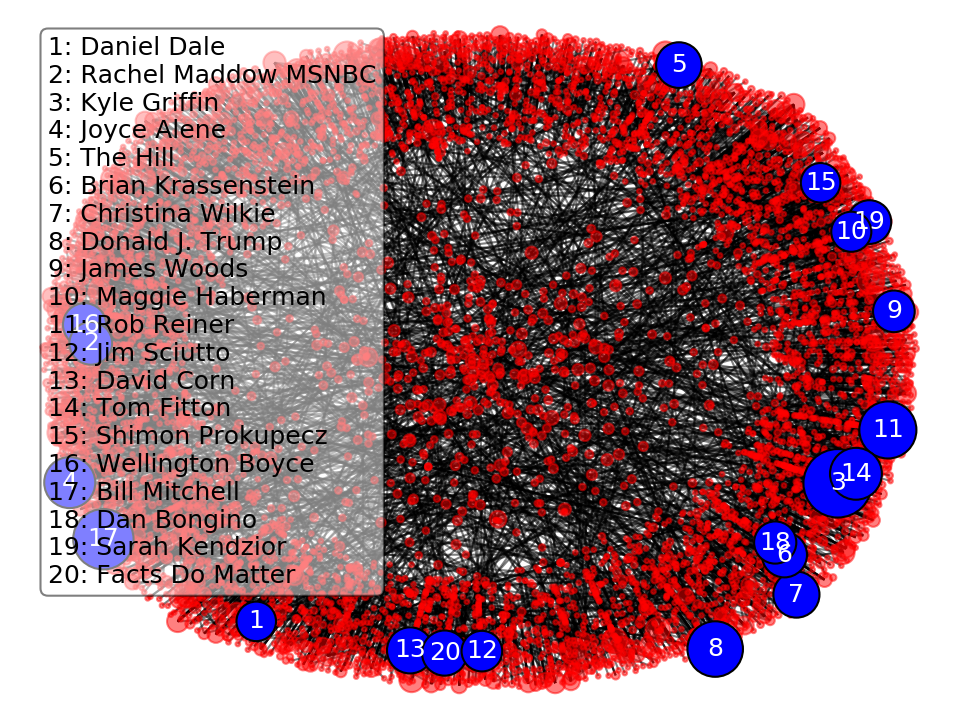
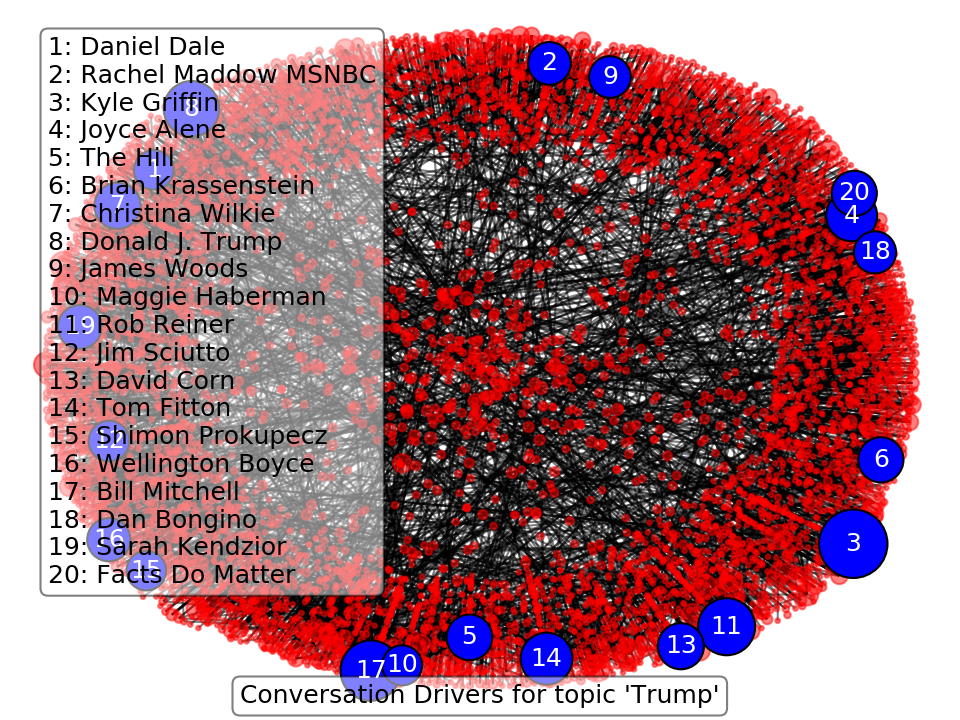
add title to plots, and fix demo

diff --git a/tweet_network_builder.py b/tweet_network_builder.py
@@ -2,7 +2,7 @@ import graph_builder as gb
 import matplotlib.pyplot as plt
 
 
-def analyze_csv_network_files(n_hubs=20, num_files = None, file_name=None):
+def analyze_csv_network_files(n_hubs=20, num_files = None, file_name=None, plot_title=None):
     """
     Controller function for the analysis process. User provides a few settings
     and this function will load the graph, setup all edges and nodes, define the
@@ -16,7 +16,7 @@ def analyze_csv_network_files(n_hubs=20, num_files = None, file_name=None):
     return: None
     """
     graph = gb.build_graph_from_csvs("data/", num_files=num_files)
-    position, network, ax = gb.draw_di_graph(graph)
+    position, network, ax = gb.draw_di_graph(graph, title=plot_title)
     hub_nodes = gb.get_hub_nodes(graph, top_n_hubs=n_hubs)
 
     for user, connections in hub_nodes:
@@ -30,4 +30,5 @@ def analyze_csv_network_files(n_hubs=20, num_files = None, file_name=None):
         plt.show()
 
 if __name__ == "__main__":
-    analyze_csv_network_files(file_name="images/example_network.png", num_files=None)
+    analyze_csv_network_files(file_name="images/example_network.png", num_files=None,
+                              plot_title="Conversation Drivers for topic 'Trump'")

diff --git a/graph_builder.py b/graph_builder.py
@@ -39,7 +39,7 @@ def build_graph_from_csvs(path, sep=";,.", num_files=None):
 
     return graph
 
-def draw_di_graph(graph_object, scale_by_degree=True):
+def draw_di_graph(graph_object, scale_by_degree=True, title=None):
     """
     Takes a networkx graph object and draws a plot of the network.
 
@@ -60,7 +60,13 @@ def draw_di_graph(graph_object, scale_by_degree=True):
     else:
         network = nx.draw(graph_object, pos=positions, node_size=10, alpha=0.5)
 
-    return positions, network, plt.gca()
+    ax = plt.gca()
+    if title:
+        props = dict(boxstyle='round', facecolor='white', alpha=0.5)
+        ax.text(0.25, 0.05, title, transform=ax.transAxes, fontsize=12,
+                verticalalignment='top', bbox=props)
+
+    return positions, network, ax
 
 def get_hub_nodes(graph_object, top_n_hubs=10):
     """
